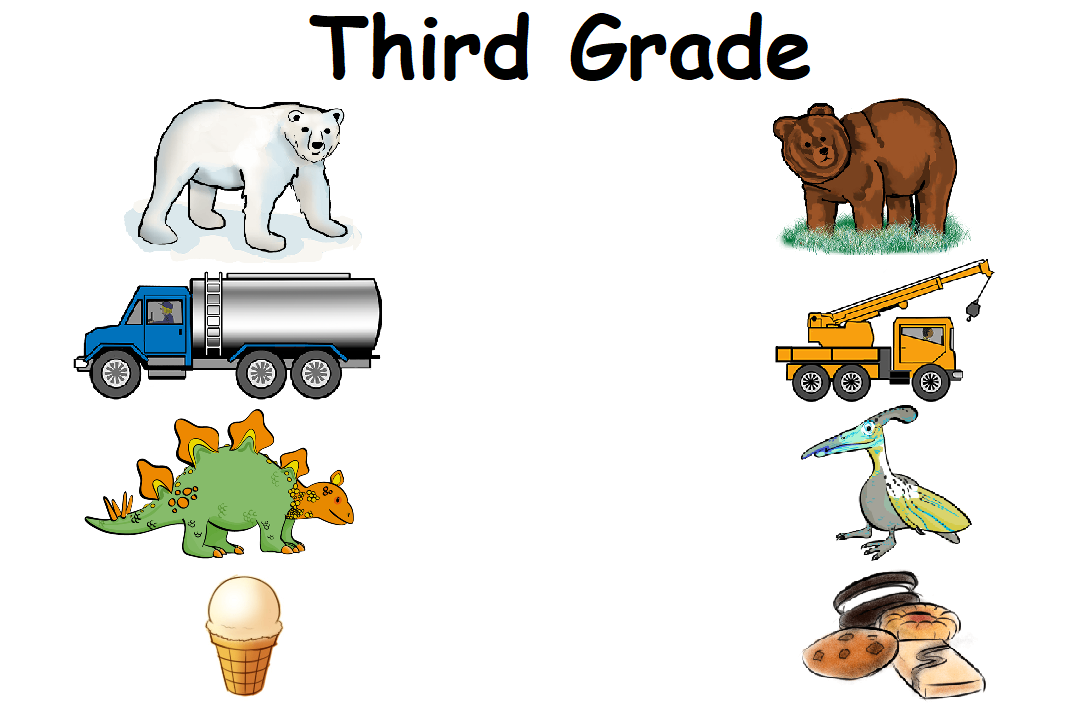
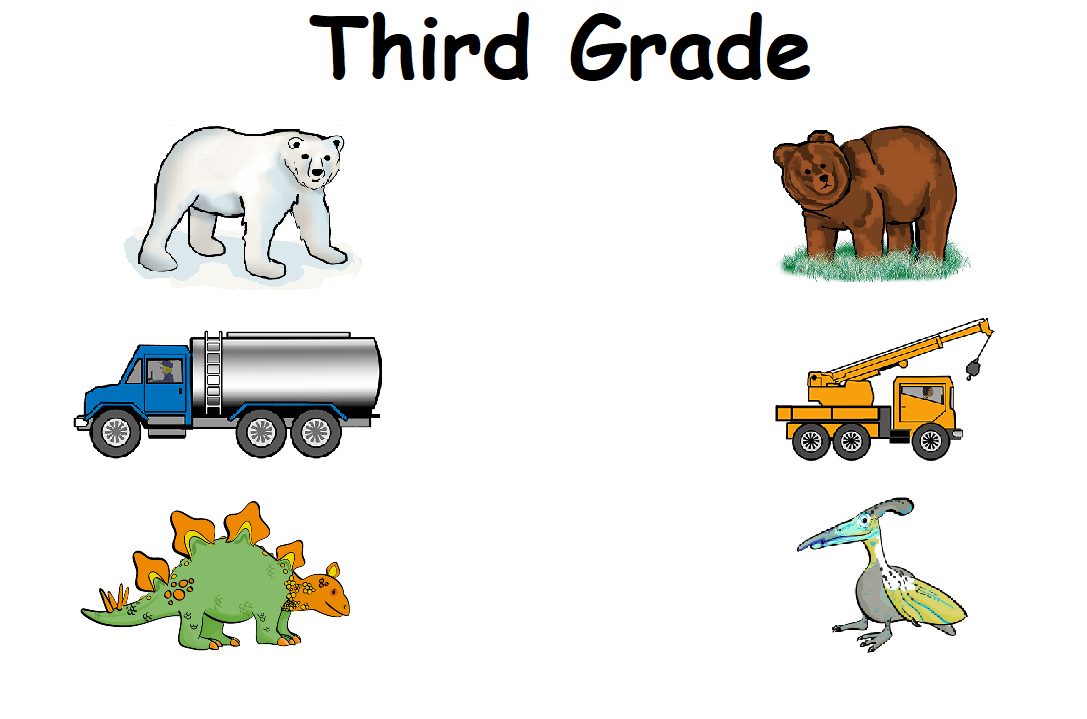
styling change to second category page

Changed region(s): [[0.0607, 0.1224, 0.3643, 0.9791], [0.6983, 0.1224, 0.9108, 0.9791]]

diff --git a/src/app/pages/third-categories/third-categories.component.css b/src/app/pages/third-categories/third-categories.component.css
@@ -16,7 +16,7 @@
 #consonants {
     background: url('../../../assets/img/buttons/second_consonants.png') no-repeat scroll transparent;
     background-size: 45vh;
-    margin-top: 11vh;
+    margin-top: 16vh;
     background-position: center;
     cursor: pointer;
 }
@@ -32,17 +32,11 @@
     background-position: center;
     cursor: pointer;
 }
-#wordstructures {
-    background: url('../../../assets/img/buttons/wordstructures.png') no-repeat scroll transparent;
-    background-size: 45vh;
-    background-position: center;
-    cursor: pointer;
-}
   
 .category_button {
     width: 45vh;
     height: 19.5vh;
-    margin: 1.6vh 0vh 0vh 35.5vh;
+    margin: 6vh 0vh 0vh 35.5vh;
     border: none;
     display: inherit;
 }

diff --git a/src/app/pages/third-categories/third-categories.component.html b/src/app/pages/third-categories/third-categories.component.html
@@ -4,7 +4,6 @@
             <button mat-icon-button class='category_button' id='consonants' (mouseenter)='playAudio($event)' routerLink='/third-consonants-details'></button>
             <button mat-icon-button class='category_button' id='vowels' (mouseenter)='playAudio($event)' routerLink='/third-vowels-details'></button>
             <button mat-icon-button class='category_button' id='vowel_consonant_blends' (mouseenter)='playAudio($event)' routerLink='/third-vowelconsonants-details'></button>
-            <button mat-icon-button class='category_button' id='wordstructures' (mouseenter)='playAudio($event)'></button>
         </div>
     </div>
 

diff --git a/src/app/pages/second-categories/second-categories.component.css b/src/app/pages/second-categories/second-categories.component.css
@@ -16,7 +16,7 @@
 #consonants {
     background: url('../../../assets/img/buttons/second_consonants.png') no-repeat scroll transparent;
     background-size: 50vh;
-    margin-top: 19vh;
+    margin-top: 22vh;
     background-position: center;
     cursor: pointer;
 }
@@ -30,7 +30,7 @@
 .category_button {
     width: 50vh;
     height: 22vh;
-    margin: 9vh 0vh 0vh 33vh;
+    margin: 12vh 0vh 0vh 33vh;
     border: none;
     display: inherit;
 }
